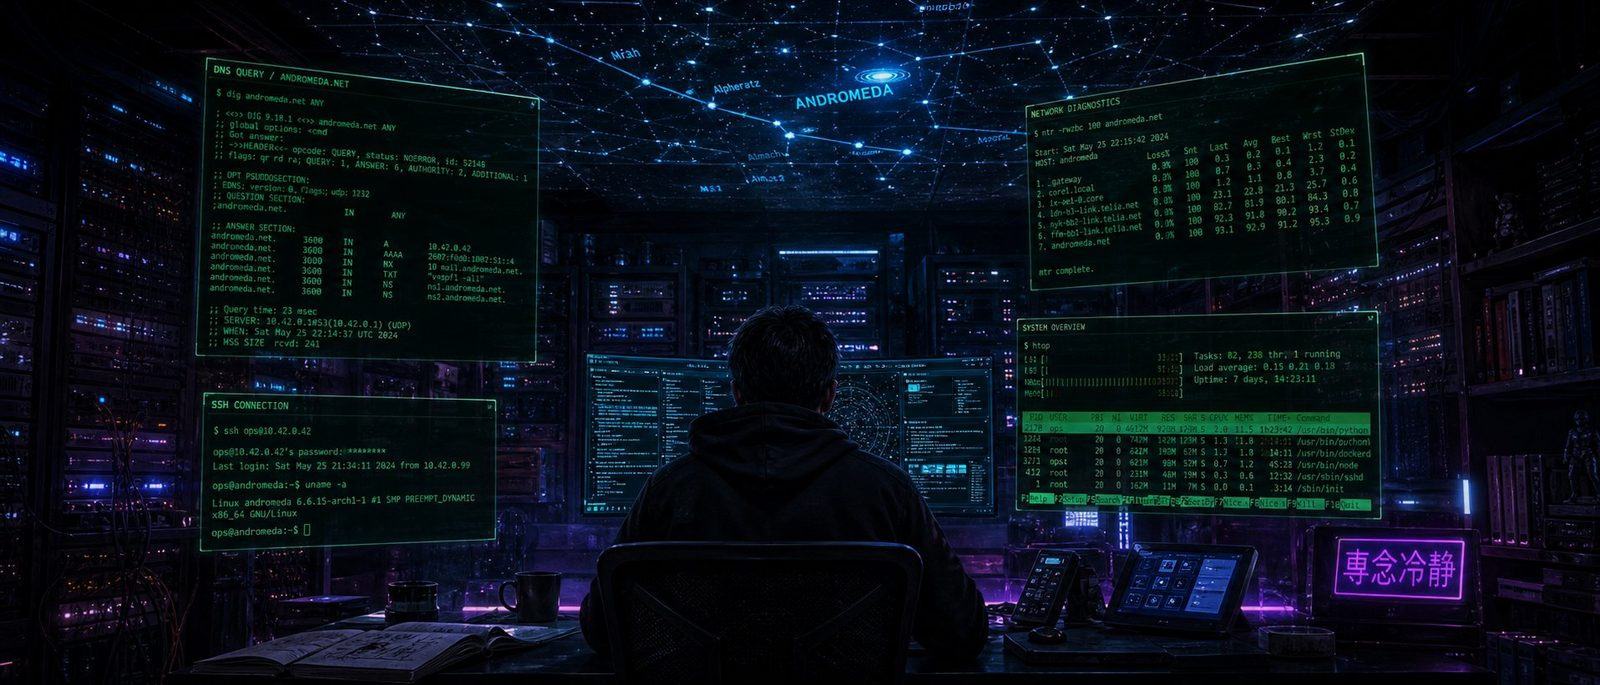
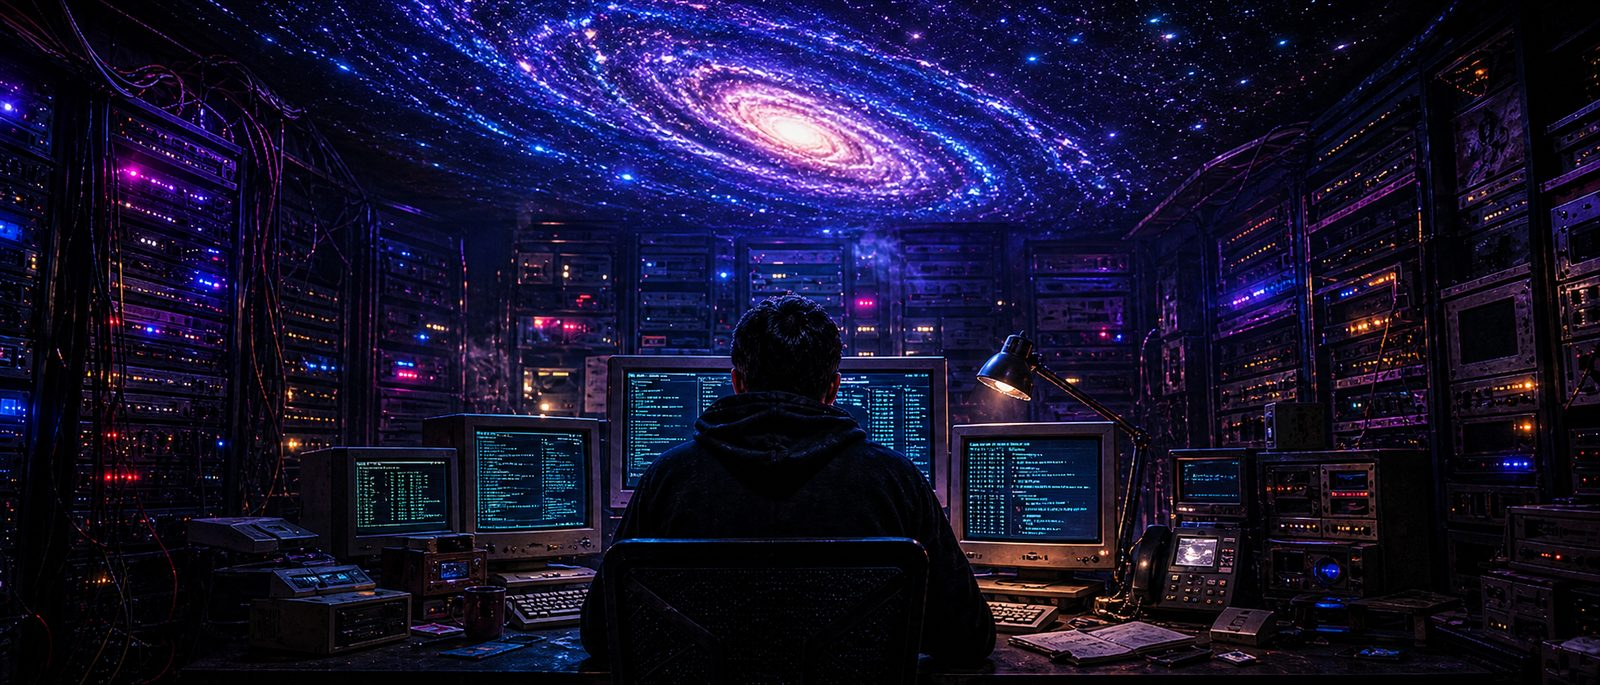
Rename post, update title and slug, add starter prompt section, fix CSV symlink, new featured image

diff --git a/posts/2026-05-01-netlify-alternative-caddy-digitalocean.md b/posts/2026-05-01-netlify-alternative-caddy-digitalocean.md
@@ -1,13 +1,13 @@
 ---
-title: I Built My Own Web Server and Named It After a Galaxy
+title: "A $12 Netlify Alternative: Caddy, DigitalOcean, and One Shell Script"
 date: 2026-05-01
 author: Robby McCullough
 tags: [claude code, ai, web development, infrastructure, self-hosting, caddy, digitalocean]
 ---
 
-# I Built My Own Web Server and Named It After a Galaxy
+# A $12 Netlify Alternative: Caddy, DigitalOcean, and One Shell Script
 
-I've been hosting my websites on various webhosts for years, and I recently started using Netlify to quickly host some of my vibe coded projects. I love the experience of Netlify and I'm having a blast building and using static HTML again. It's just so fast and agile when combined with an agentic workflow. That said I was making a bunch of tweaks to a site and I quickly hit the cap on Netlify's free tier. 
+I've been hosting my websites on various webhosts for years, and I recently started using Netlify to quickly host some of my vibe coded projects. I love the experience of Netlify and I'm having a blast building and using static HTML again. It's just so fast and agile when combined with an agentic workflow. That said I was making a bunch of tweaks to a site and I quickly hit the cap on Netlify's free tier. I upgraded to the $5/month tier but in classic "Robby move" I decided, why not rebuild the whole thing from scratch and pay more lol.
 
 I thought it would be a fun project to set up a server on DigitalOcean. It's been many, many years, but I used to use Ubuntu as my daily driving operating system, and I hosted my own web server out of my house for a long time. When I started getting into WordPress, my focus shifted more toward WordPress and front-end development, and my days of tinkering with servers came to an end. 
 
@@ -28,7 +28,7 @@ mysite.com, www.mysite.com {
 
 That's the whole thing. Caddy handles the cert. You point DNS at it and walk away.
 
-I named the server Andromeda. I use frogs for my hard drives, and I wanted a different theme for servers — constellations felt right. Andromeda is the first one.
+I named the server Andromeda. My dad used to name his computers after Star Trek spaceships so I thought doing something galactic and sci-fi would be a nice tribute. I'm a bit of an astronomy geek and if I add more servers down the line, I have plenty more galaxy names to pick from. 
 
 ## The Automation
 
@@ -41,6 +41,33 @@ When I ran `curl -sI https://mybbor.com` and saw `server: Caddy` come back, I di
 This kind of setup used to be a multi-day project with a lot of Stack Overflow and a lot of broken configs. Doing it with agentic AI assistance, it was an afternoon and a bike ride.
 
 I've got a few more sites to migrate. Then I want to set up self-hosted analytics. The server's sitting there ready.
+
+## Try It Yourself
+
+If you want to replicate this setup, here's a starting prompt you can paste into [Claude Code](https://claude.ai/code) or any AI coding assistant. It won't be a perfect fit out of the box — you'll need to adapt it to your domain registrar, GitHub username, and server preferences — but it'll get you most of the way there.
+
+> *Note: This is a starting point, not a complete recipe. Expect to iterate, answer questions, and make decisions along the way. That's half the fun.*
+
+---
+
+```
+I want to set up a self-hosted web server for my static HTML sites. Here's what I'm working with:
+
+- My sites are static HTML, stored locally and pushed to GitHub
+- I want to host them on a DigitalOcean droplet running Caddy as the web server
+- I want automatic deployment via GitHub Actions: push to main → site updates live
+- I'm using Cloudflare for DNS (grey cloud / DNS-only mode so Caddy handles TLS)
+- I want a reusable script that can add new sites with one command
+
+Please walk me through the full setup end to end:
+1. Creating and hardening the DigitalOcean droplet (Ubuntu, deploy user, UFW firewall)
+2. Installing and configuring Caddy
+3. Setting up GitHub Actions deployment (SSH key, secrets, workflow file)
+4. Configuring DNS in Cloudflare
+5. Building an add-site.sh script that automates steps 2–4 for each new site
+
+Start by asking me for any details you need (server IP, GitHub username, domains, etc.), then let's go step by step.
+```
 
 ---
 
